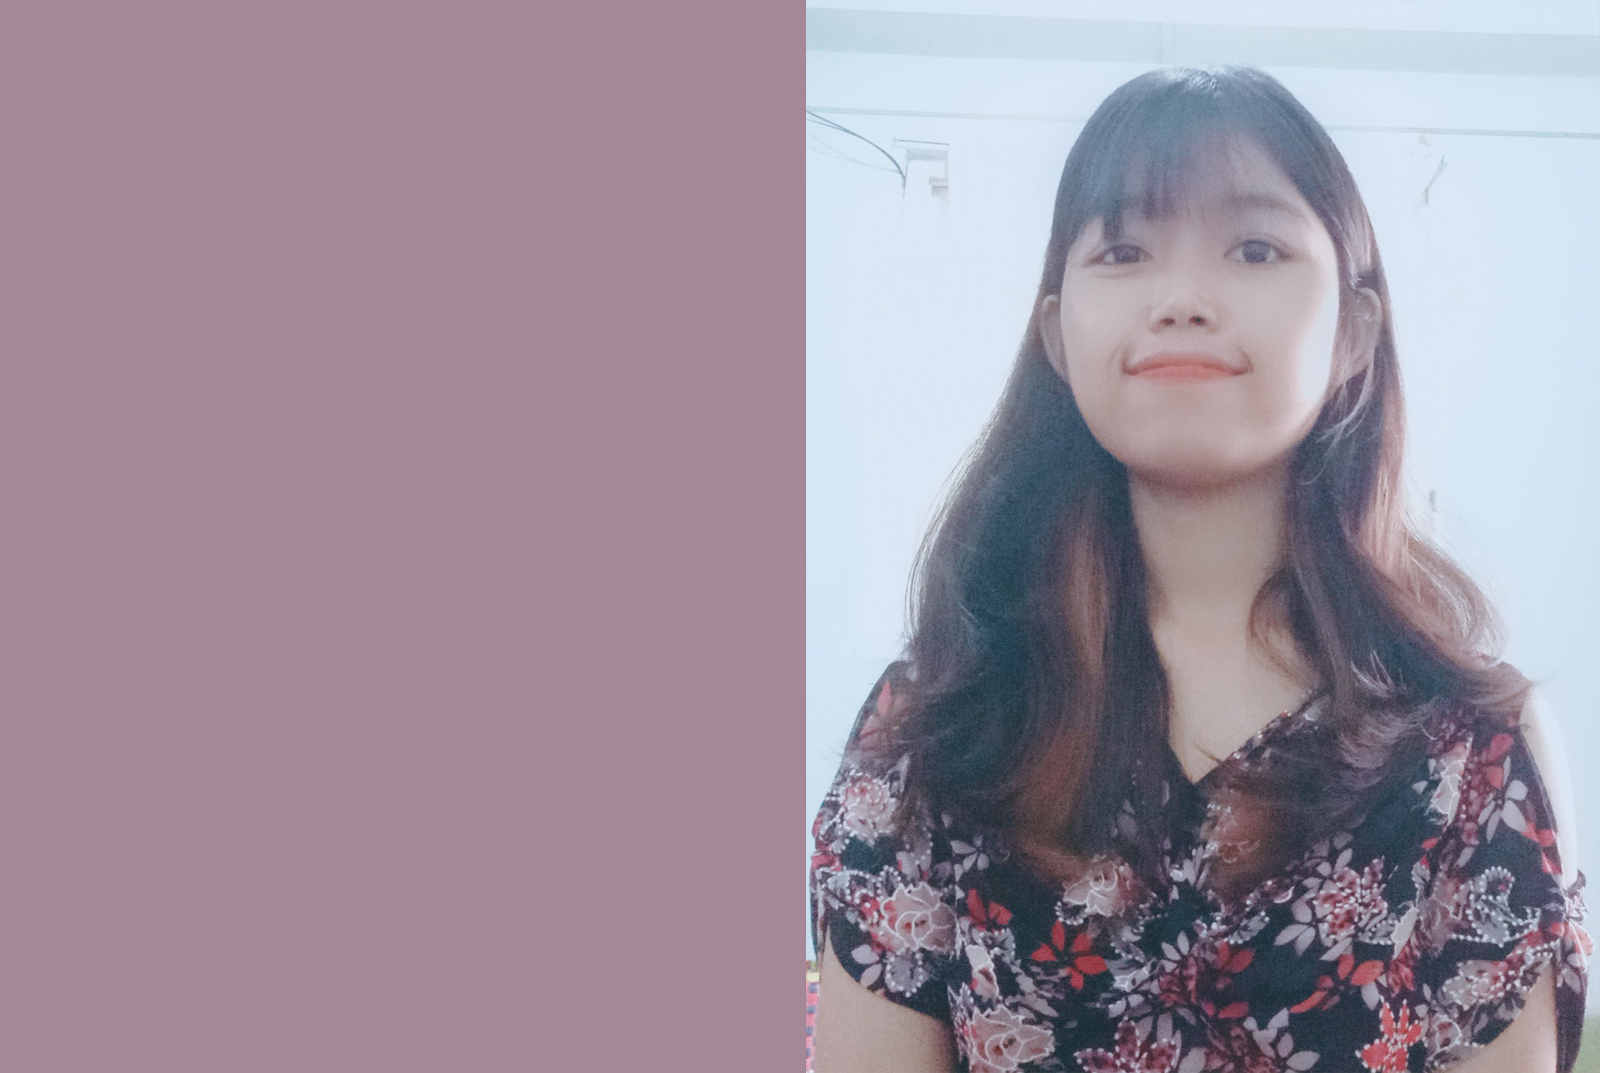
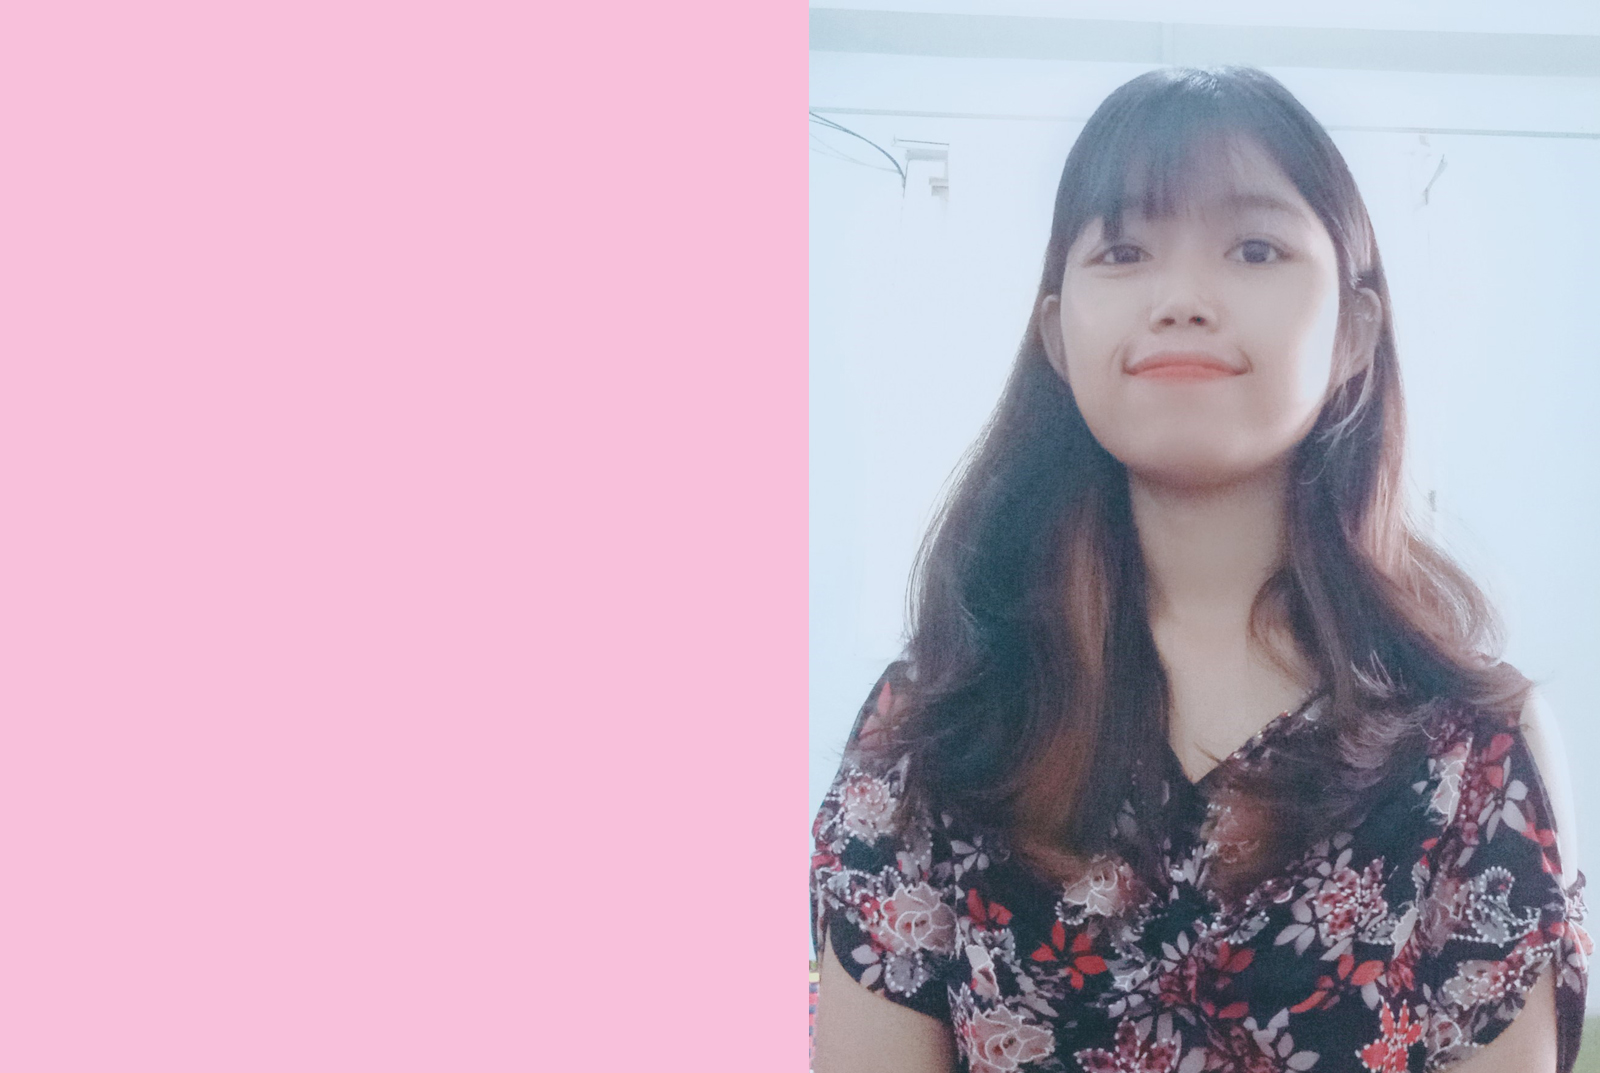
profile info update

diff --git a/index.html b/index.html
@@ -648,7 +648,7 @@
 								
 								<p>
 									Front-end : Android <br>
-									SCM 	 : SVN
+									Version Control System  	 : SVN
 								</p>
 
 							</div>
@@ -664,8 +664,7 @@
 							<img src="images/portfolio-2.png" class="Portfolio Image" alt="" />
 							<div class="single-portfolio-overlay">
 								<h2>Toyota</h2>
-								<h3>This porject includes check yard is available or not for car parking,check status of
-									car like that error or good scan car bar code information and take evidence picture.
+								<h3>This porject includes check yard is available or not for car parking,check car error, scan car bar code information and take evidence pictures.
 								</h3>
 							</div>
 						</a>
@@ -680,7 +679,7 @@
 								
 								<p>
 									Front-end : Android <br>
-									SCM 	 : SVN
+									Version Control System  	 : SVN
 								</p>
 
 							</div>
@@ -712,7 +711,7 @@
 								<p>
 									Front-end : PHP <br>
 									Back-end : PHP<br>
-									SCM 	 : SVN
+									Version Control System  	 : SVN
 								</p>
 
 							</div>
@@ -745,7 +744,7 @@
 								<p>
 									Front-end : React Native <br>
 									Back-end : Firebase<br>
-									SCM 	 : Git,Sourcetree
+									Version Control System  	 : Git,Sourcetree
 								</p>
 
 							</div>
@@ -777,7 +776,7 @@
 								<p>
 									Front-end : ReactJS <br>
 									Back-end : PHP<br>
-									SCM 	 : SVN
+									Version Control System  	 : SVN
 								</p>
 
 							</div>

diff --git a/css/custom.css b/css/custom.css
@@ -11,8 +11,8 @@
 body{
 	font-size: 16px;
 	font-family: 'Roboto', sans-serif;
-	background: #a48896;
-	color: #813f3c;
+	background: #f8cce1;
+	color: #8b0701;
 }
 
 h1,
@@ -314,7 +314,7 @@ header .navbar.sticky-header{
 }
 
 .banner-content p{
-	color: #813f3c;
+	color: #8b0701;
 	font-size: 20px;
 	font-weight: 300;
 	margin-bottom: 1.5em;
@@ -581,6 +581,7 @@ header .navbar.sticky-header{
 .experience-single p{
 	margin: 0;
 	line-height: 1.6em;
+	color:white;
 }
 
 .experience-pagination,
